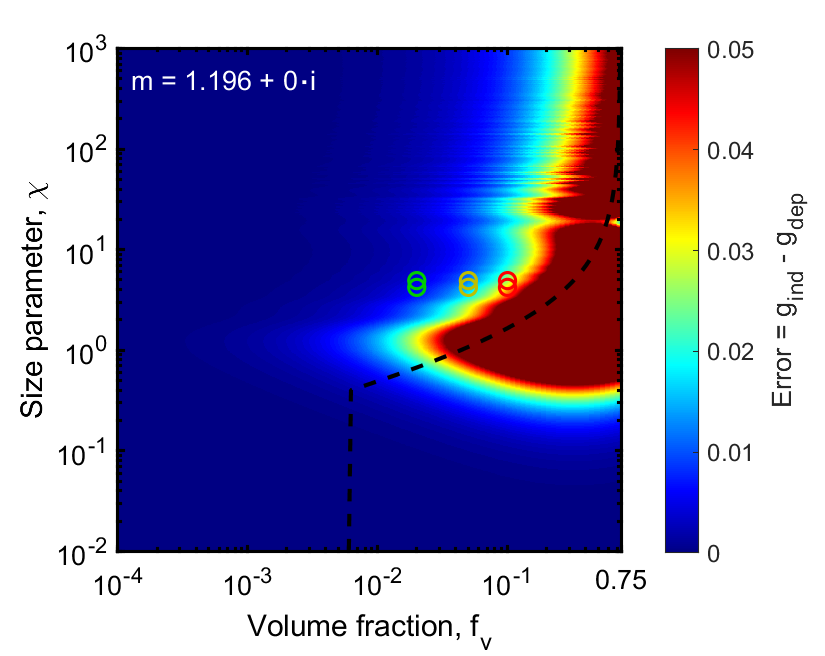
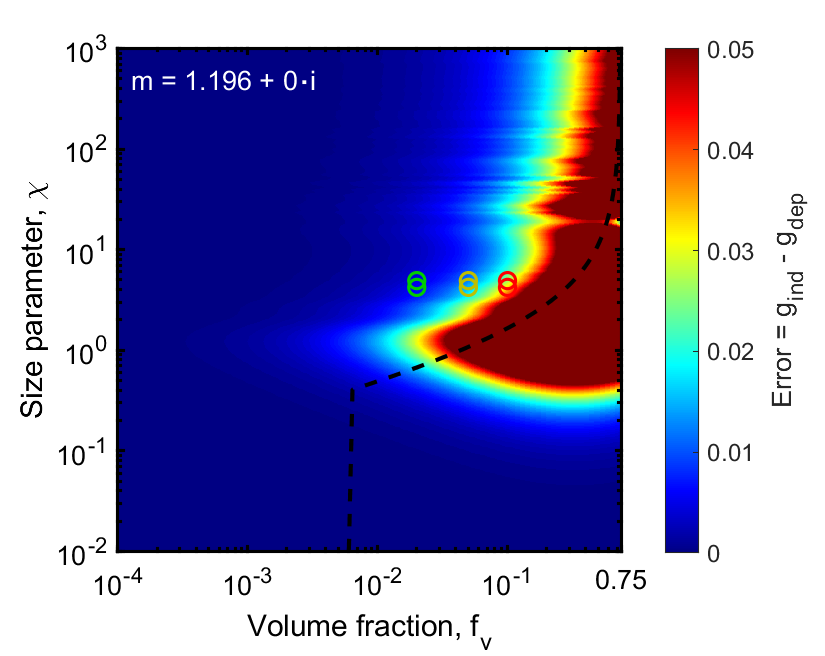
Add files via upload

Changed region(s): [[0.5455, 0.0915, 0.7273, 0.3354], [0.7273, 0.3354, 0.7576, 0.3659]]

diff --git a/main.m b/main.m
@@ -8,7 +8,7 @@ n_pigment=1.196;  %real refractive index of pigment
 k_pigment=0;  %imaginary refractive index of pigment
 n_medium = 1;
 nang=20000;
-no_of_f_v=50;
+no_of_f_v=100;
 no_of_xs=200;
 
 f_v=logspace(-4,log10(0.75),no_of_f_v);
@@ -231,4 +231,3 @@ t.Color = [1 1 1];
 saveas(gcf,['asymm.png'])
 % saveas(gcf,['asymm.emf'])
 saveas(gcf,['asymm.fig'])
-
